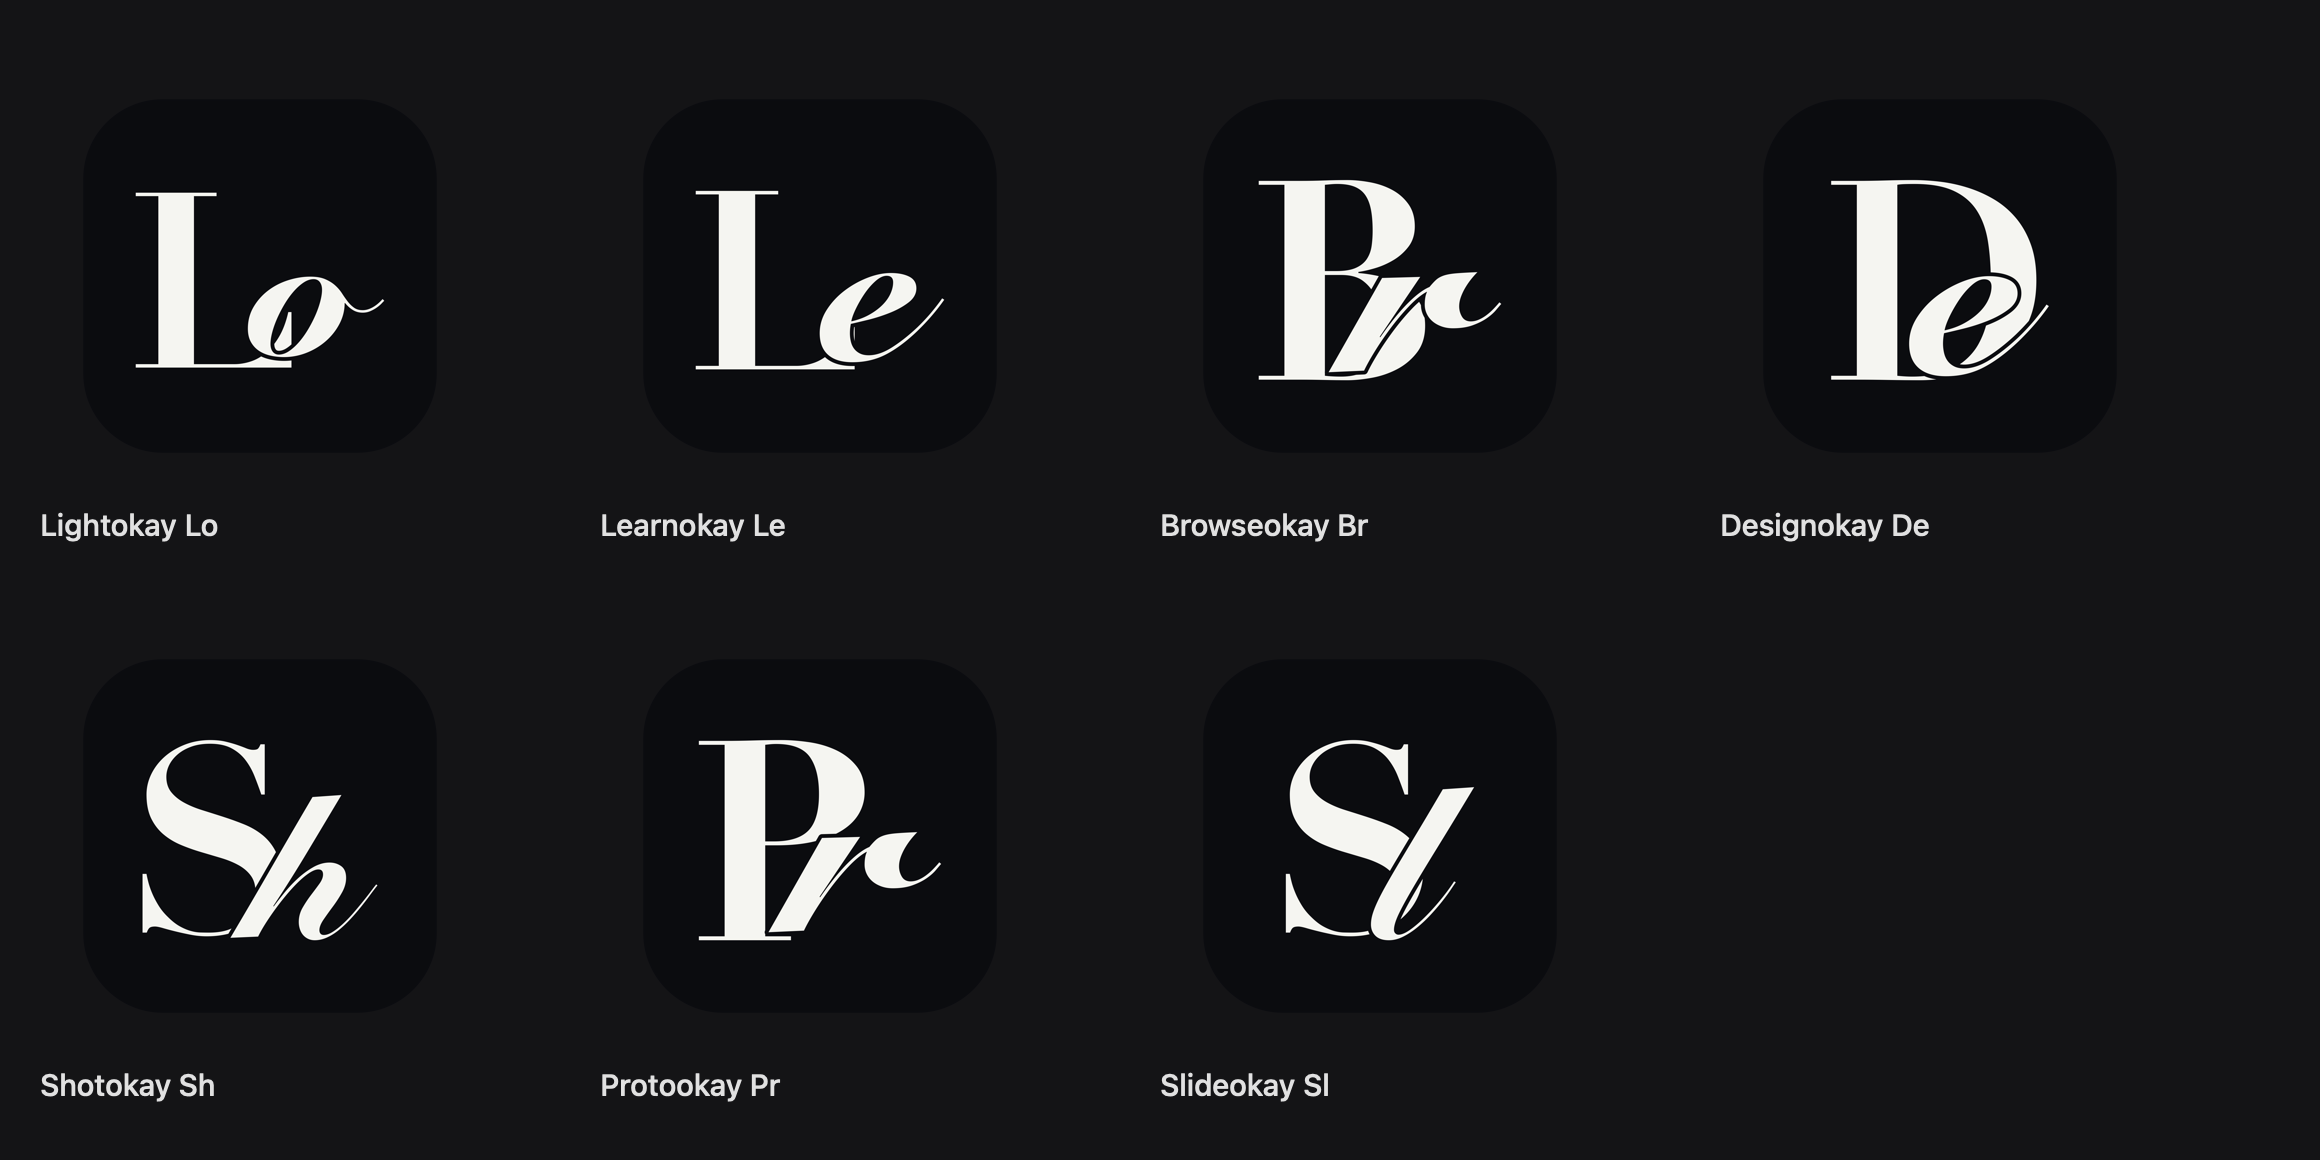
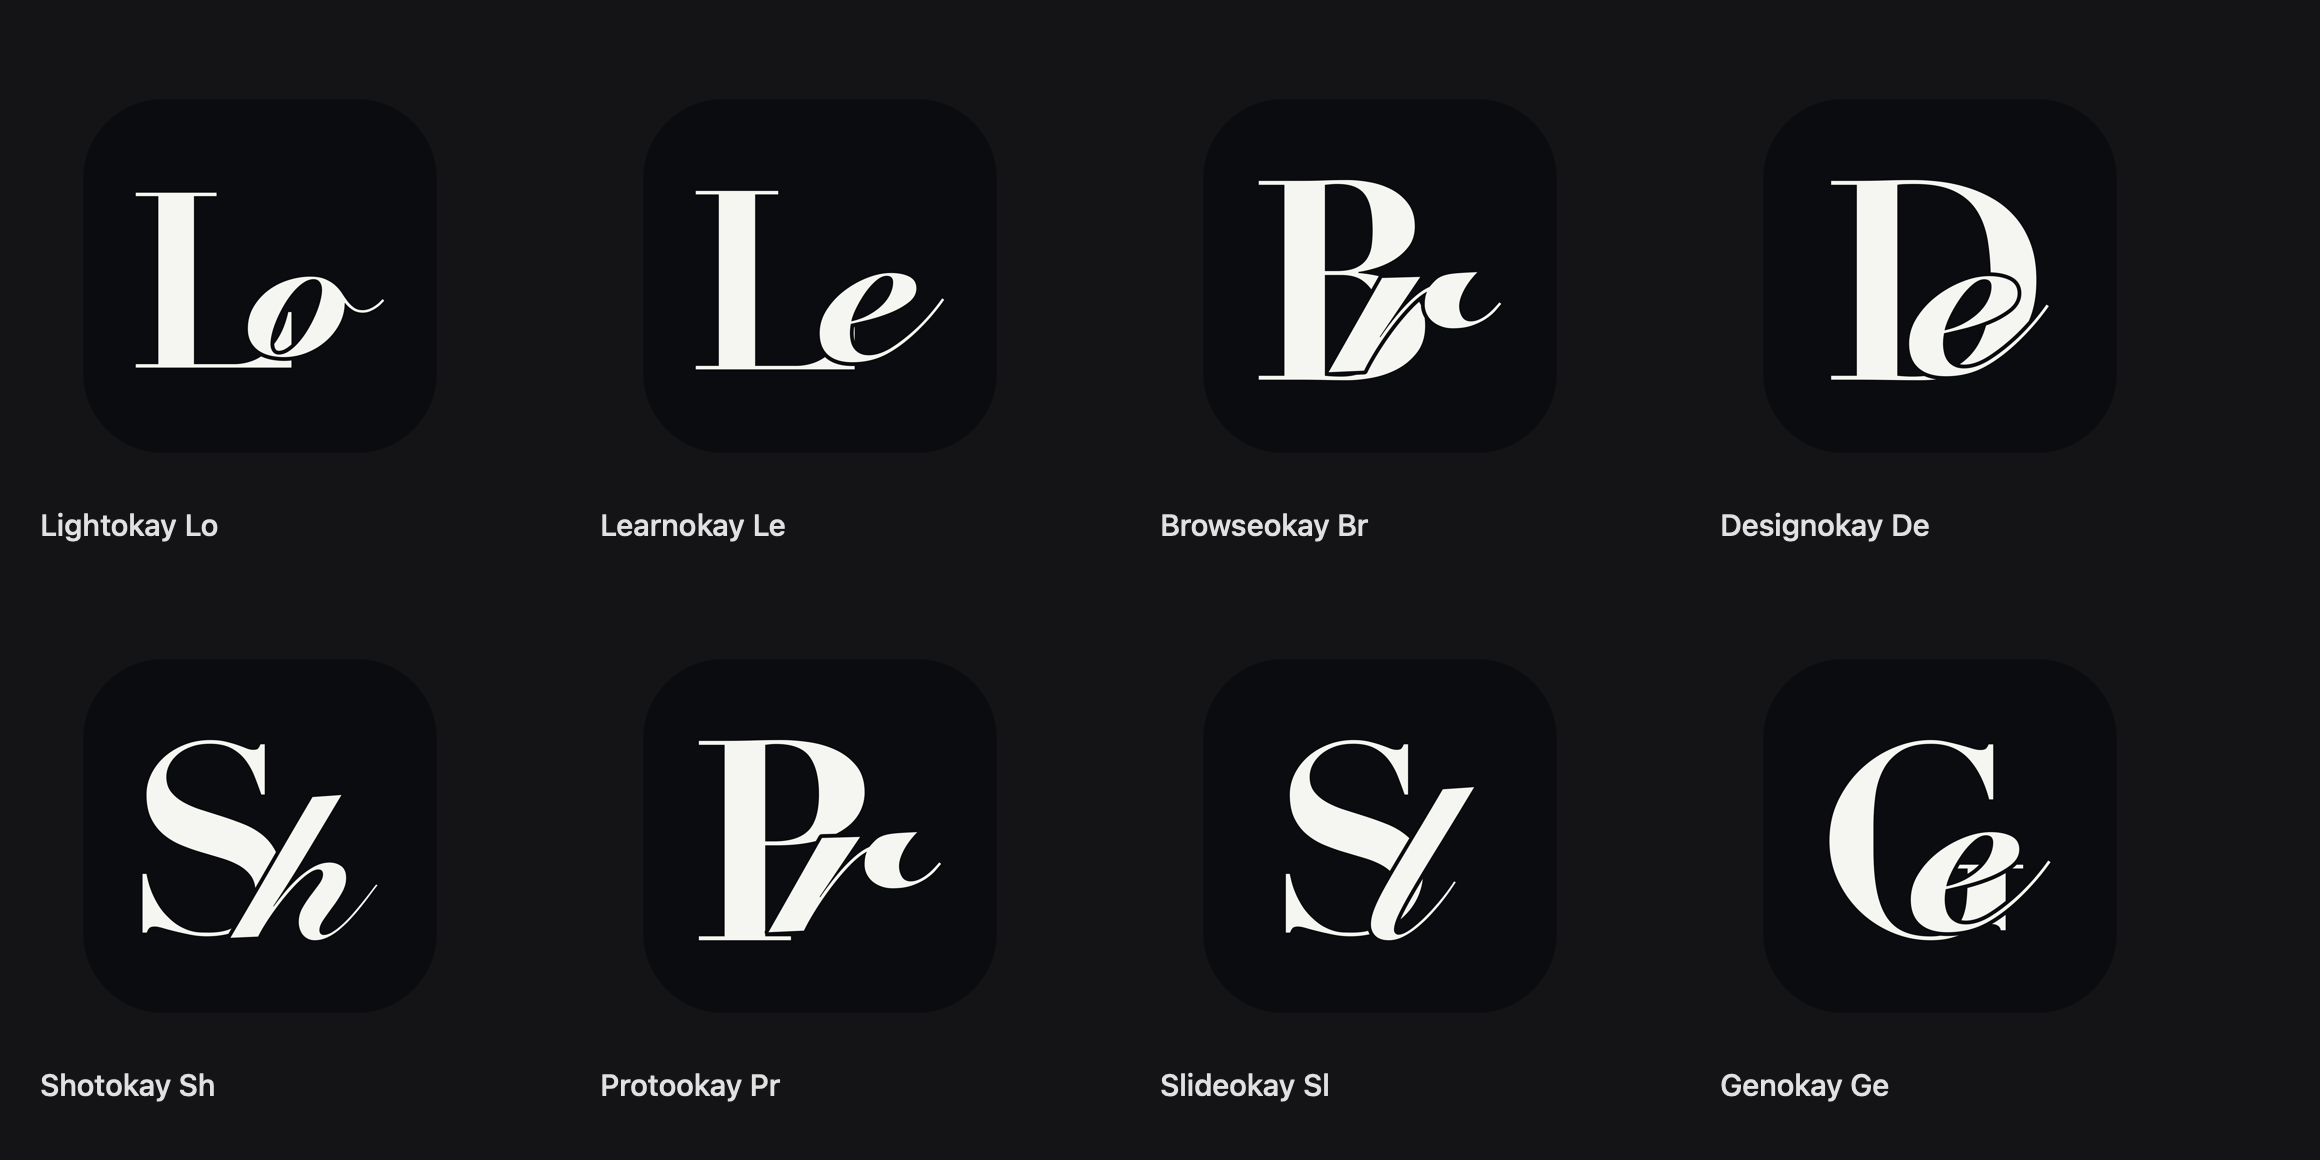
feat(family-mark): add the Genokay Ge monogram
Register Genokay in the catalog and refresh the monogram examples.

Changed region(s): [[0.7759, 0.6207, 0.869, 0.8069], [0.7448, 0.931, 0.8069, 0.9621]]

diff --git a/skills/family-mark/SKILL.md b/skills/family-mark/SKILL.md
@@ -2,15 +2,15 @@
 name: Family mark
 description: >-
   Draw an Okayok-family app icon in a registered visual style. Use when
-  creating or updating marks for Browseokay, Designokay, Learnokay, Lightokay,
-  Protookay, Shotokay, or Slideokay, or when adding another icon style.
+  creating or updating marks for Browseokay, Designokay, Genokay, Learnokay,
+  Lightokay, Protookay, Shotokay, or Slideokay, or when adding another icon style.
 ---
 # Family mark
 
 One catalog of product names, many visual styles. The default style is `monogram`. Do not invent a second letter pair for a name that is already in the catalog.
 
 ## Files
-- [catalog.json](catalog.json) — the seven `*okay` products and their marks. Okayok itself is not in this list.
+- [catalog.json](catalog.json) — the `*okay` products and their marks. Okayok itself is not in this list. Genokay's mark is `Ge`.
 - [styles/index.json](styles/index.json) — registered styles. `default` is the style to use when nobody names one.
 - `styles/<id>/style.json` — tokens for that style.
 - `styles/<id>/examples/` — checked-in renders. These are the reference, not a sketch.
@@ -42,6 +42,6 @@ Add one object to `catalog.json` with `slug`, `name`, and `mark`. Then render ev
 Add `styles/<id>/` with `style.json`, `examples/`, and a renderer script if the geometry is not the monogram script. Register it in `styles/index.json`. Do not change existing style folders or existing example pixels when adding a style. Do not change `default` unless the user says the new style replaces it.
 
 ## Do not
-- Restyle the Okayok parent mark as one of these seven.
+- Restyle the Okayok parent mark as one of these products.
 - Swap Lucide icons in for a family mark.
 - Edit an example PNG by hand. Change `placement` or `style.json`, then re-render.
